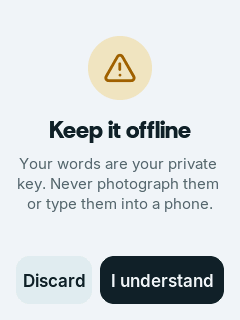
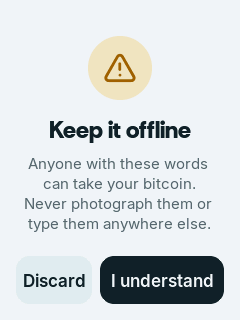
Keep it offline: say what the risk is, not just phones
The warning said the words (or the seed QR) are your private key and not
to photograph them or type them into a phone. "Private key" is jargon, and
a phone is only one of the devices that can leak them. Now it says anyone
with them can take your bitcoin, and not to photograph or type (scan) them
anywhere else. Each sentence starts its own line, so the text wraps unevenly
instead of in a block of equal-width lines.

Changed region(s): [[0.0583, 0.5, 0.9042, 0.7188], [0.1167, 0.6875, 0.4083, 0.7188]]

diff --git a/firmware/src/app/ui.cpp b/firmware/src/app/ui.cpp
@@ -2343,8 +2343,8 @@ static void build_backup_warning() {
     lv_obj_t *scr = screen();
     lv_obj_align(icon_badge(scr, ICON_WARNING, AMBER, AMBER_DIM, 64), LV_ALIGN_TOP_MID, 0, 36);
     lv_obj_align(text(scr, "Keep it offline", &rethink_24, TEXT), LV_ALIGN_TOP_MID, 0, 118);
-    lv_obj_align(para(scr, backup_existing ? "Your seed QR is your private key. Never photograph it or scan it with a phone."
-                                           : "Your words are your private key. Never photograph them or type them into a phone."),
+    lv_obj_align(para(scr, backup_existing ? "Anyone with this QR can take your bitcoin.\nNever photograph it or scan it anywhere else."
+                                           : "Anyone with these words can take your bitcoin.\nNever photograph them or type them anywhere else."),
                  LV_ALIGN_TOP_MID, 0, 154);
     bottom_pair(btn_ghost(scr, backup_existing ? "Cancel" : "Discard",
                           backup_cancel_cb, nullptr, TEXT),
